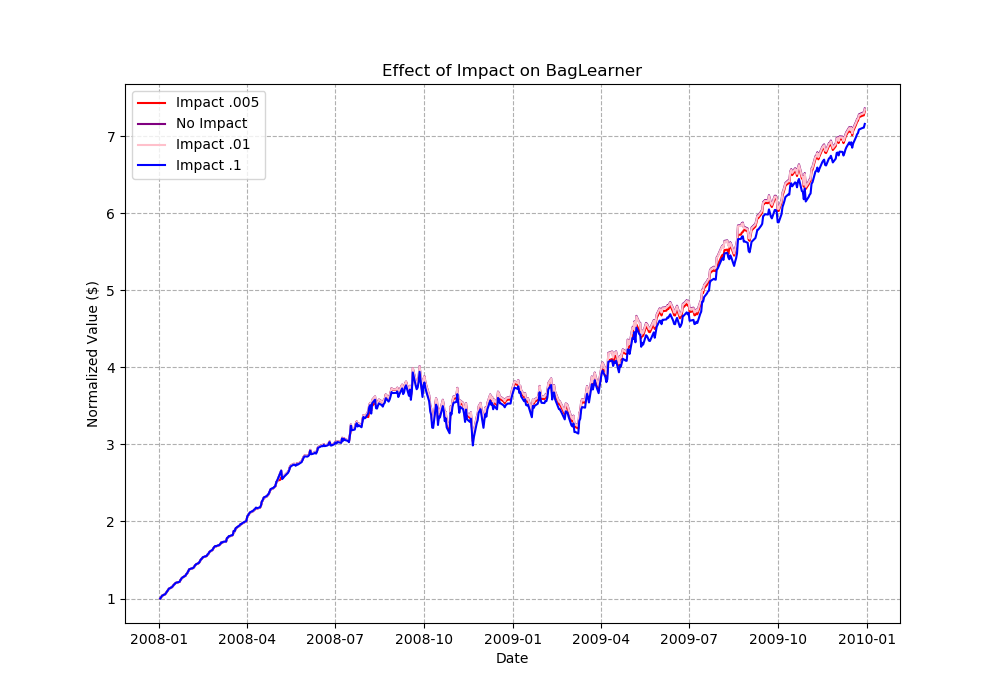
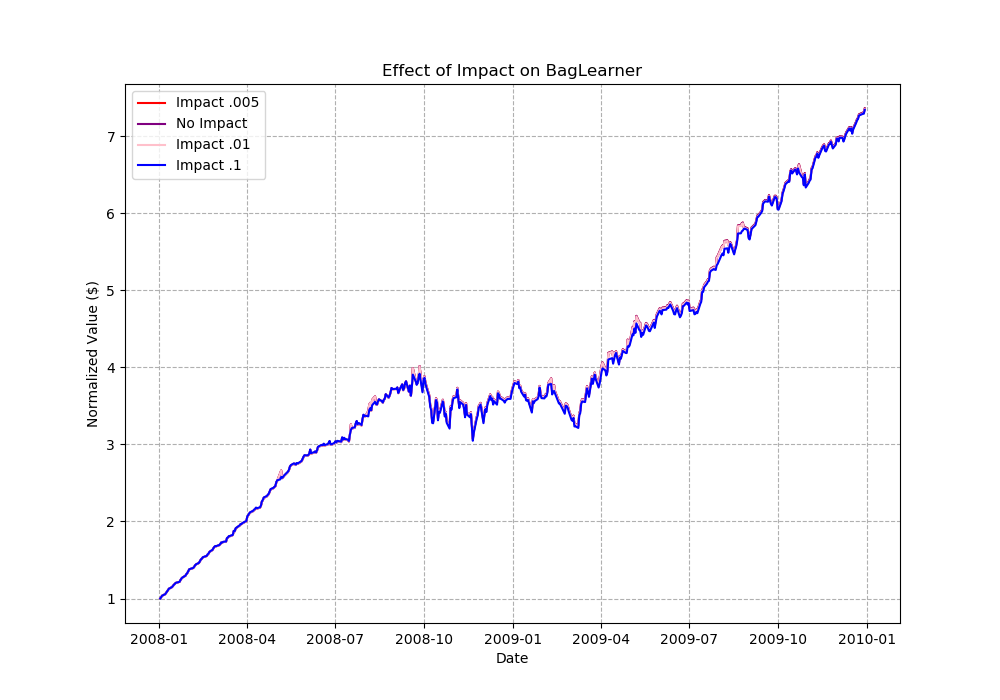
Project 8: fixed key error in indicators.py

diff --git a/strategy_evaluation/StrategyLearner.py b/strategy_evaluation/StrategyLearner.py
@@ -33,8 +33,6 @@ GT ID: 903376324 (replace with your GT ID)
 """
 
 import datetime as dt
-import random
-import QLearner as q
 import pandas as pd
 import util as ut
 import indicators
@@ -85,31 +83,28 @@ class StrategyLearner(object):
         :param sv: The starting value of the portfolio  		  	   		  		 			  		 			 	 	 		 		 	
         :type sv: int  		  	   		  		 			  		 			 	 	 		 		 	
         """
-        syms = [symbol]
-        dates = pd.date_range(sd, ed)
-        prices_all = ut.get_data(syms, dates)
-        prices = prices_all[syms]
+        prices_all = ut.get_data([symbol], pd.date_range(sd, ed))
+        prices = prices_all[[symbol]]
 
         sma, macd, cci = get_indicators(prices, symbol)
 
-        inds = pd.concat((sma, macd, cci), axis=1)
+        inds = pd.concat((sma, macd, cci), axis=1)[:-5]
         inds.fillna(0, inplace=True)
-        inds = inds[:-5]
-        trainX = inds.values
+        x = inds.values
 
-        trainY = []
+        y = []
         for i in range(prices.shape[0] - 5):
             ratio = (prices.ix[i + 5, symbol] - prices.ix[i, symbol]) / prices.ix[i, symbol]
             if ratio > (0.02 + self.impact):
-                trainY.append(1)
+                y.append(1)
             elif ratio < (-0.02 - self.impact):
-                trainY.append(-1)
+                y.append(-1)
             else:
-                trainY.append(0)
+                y.append(0)
 
-        trainY = np.array(trainY)
+        y = np.array(y)
 
-        self.learner.add_evidence(trainX, trainY)
+        self.learner.add_evidence(x, y)
 
     def testPolicy(
             self,
@@ -136,50 +131,48 @@ class StrategyLearner(object):
         :rtype: pandas.DataFrame  		  	   		  		 			  		 			 	 	 		 		 	
         """
 
-        syms = [symbol]
-        dates = pd.date_range(sd, ed)
-        prices_all = ut.get_data(syms, dates)
-        prices = prices_all[syms]
-        trades = prices_all[syms].copy()
+        prices_all = ut.get_data([symbol], pd.date_range(sd, ed))
+        prices = prices_all[[symbol]]
+        trades = prices_all[[symbol]].copy(deep=True)
         trades.loc[:] = 0
 
         sma, macd, cci = get_indicators(prices, symbol)
 
         inds = pd.concat((sma, macd, cci), axis=1)
         inds.fillna(0, inplace=True)
-        testX = inds.values
+        x = inds.values
 
-        testY = self.learner.query(testX)
+        y = self.learner.query(x)
 
-        flag = 0
+        position = 0
         for i in range(0, prices.shape[0] - 1):
-            if flag == 0:
-                if testY[i] > 0:
+            if position == 0:
+                if y[i] > 0:
                     trades.values[i, :] = 1000
-                    flag = 1
-                elif testY[i] < 0:
+                    position = 1
+                elif y[i] < 0:
                     trades.values[i, :] = -1000
-                    flag = -1
+                    position = -1
 
-            elif flag == 1:
-                if testY[i] < 0:
+            elif position == 1:
+                if y[i] < 0:
                     trades.values[i, :] = -2000
-                    flag = -1
-                elif testY[i] == 0:
+                    position = -1
+                elif y[i] == 0:
                     trades.values[i, :] = -1000
-                    flag = 0
+                    position = 0
 
             else:
-                if testY[i] > 0:
+                if y[i] > 0:
                     trades.values[i, :] = 2000
-                    flag = 1
-                elif testY[i] == 0:
+                    position = 1
+                elif y[i] == 0:
                     trades.values[i, :] = 1000
-                    flag = 0
+                    position = 0
 
-        if flag == -1:
+        if position == -1:
             trades.values[prices.shape[0] - 1, :] = 1000
-        elif flag == 1:
+        elif position == 1:
             trades.values[prices.shape[0] - 1, :] = -1000
 
         return trades
@@ -191,7 +184,7 @@ def author():
 
 def get_indicators(prices, symbol):
     macd = indicators.macd(prices, 12, 36, 10)
-    cci = indicators.cci(prices, 14)
+    cci = indicators.cci(prices, 14, symbol)
     sma = indicators.sma(prices, 24)
     sma.rename(columns={sma.columns[0]: symbol}, inplace=True)
 

diff --git a/strategy_evaluation/indicators.py b/strategy_evaluation/indicators.py
@@ -21,14 +21,14 @@ def sma(data, window):
     return mean
 
 
-def bolinger_bands(data, window, threshold):
+def bolinger_bands(data, window, threshold, symbol):
     avg = sma(data, window)
     std = data.rolling(window=window, center=False).std()
 
-    upper_band = pd.DataFrame(avg['mean'] + threshold * std['JPM'])
+    upper_band = pd.DataFrame(avg['mean'] + threshold * std[symbol])
     upper_band.rename(columns={upper_band.columns[0]: "upper"}, inplace=True)
 
-    lower_band = pd.DataFrame(avg['mean'] - threshold * std['JPM'])
+    lower_band = pd.DataFrame(avg['mean'] - threshold * std[symbol])
     lower_band.rename(columns={lower_band.columns[0]: "lower"}, inplace=True)
 
     df_out = pd.concat([avg, upper_band, lower_band], axis=1)
@@ -55,15 +55,15 @@ def macd(data, window_ema1, window_ema2, window_signal):
     return df_out
 
 
-def cci(data, window):
+def cci(data, window, symbol):
     max = data.rolling(window).max()
     min = data.rolling(window).min()
     close = data.rolling(window).agg(lambda rows: rows[-1])
     tp = (max + min + close) / 3
     avg = sma(tp, window)
     mad = data.rolling(window).apply(lambda x: pd.Series(x).mad())
-    nom = pd.DataFrame(tp['JPM'] - avg['mean'])
+    nom = pd.DataFrame(tp[symbol] - avg['mean'])
     nom.rename(columns={nom.columns[0] : 'nom'}, inplace=True)
-    cci = pd.DataFrame(nom['nom'] / (.015 * mad['JPM']))
+    cci = pd.DataFrame(nom['nom'] / (.015 * mad[symbol]))
     cci.rename(columns={cci.columns[0]: "cci"}, inplace=True)
     return cci

diff --git a/strategy_evaluation/ManualStrategy.py b/strategy_evaluation/ManualStrategy.py
@@ -23,7 +23,7 @@ def manualStrategy(symbol, start_date, end_date, starting_value):
     dates = trades.index
 
     macd = indicators.macd(prices, 12, 36, 10)
-    cci = indicators.cci(prices, 14)
+    cci = indicators.cci(prices, 14, symbol)
     sma = indicators.sma(prices, 24)
 
     short = []
